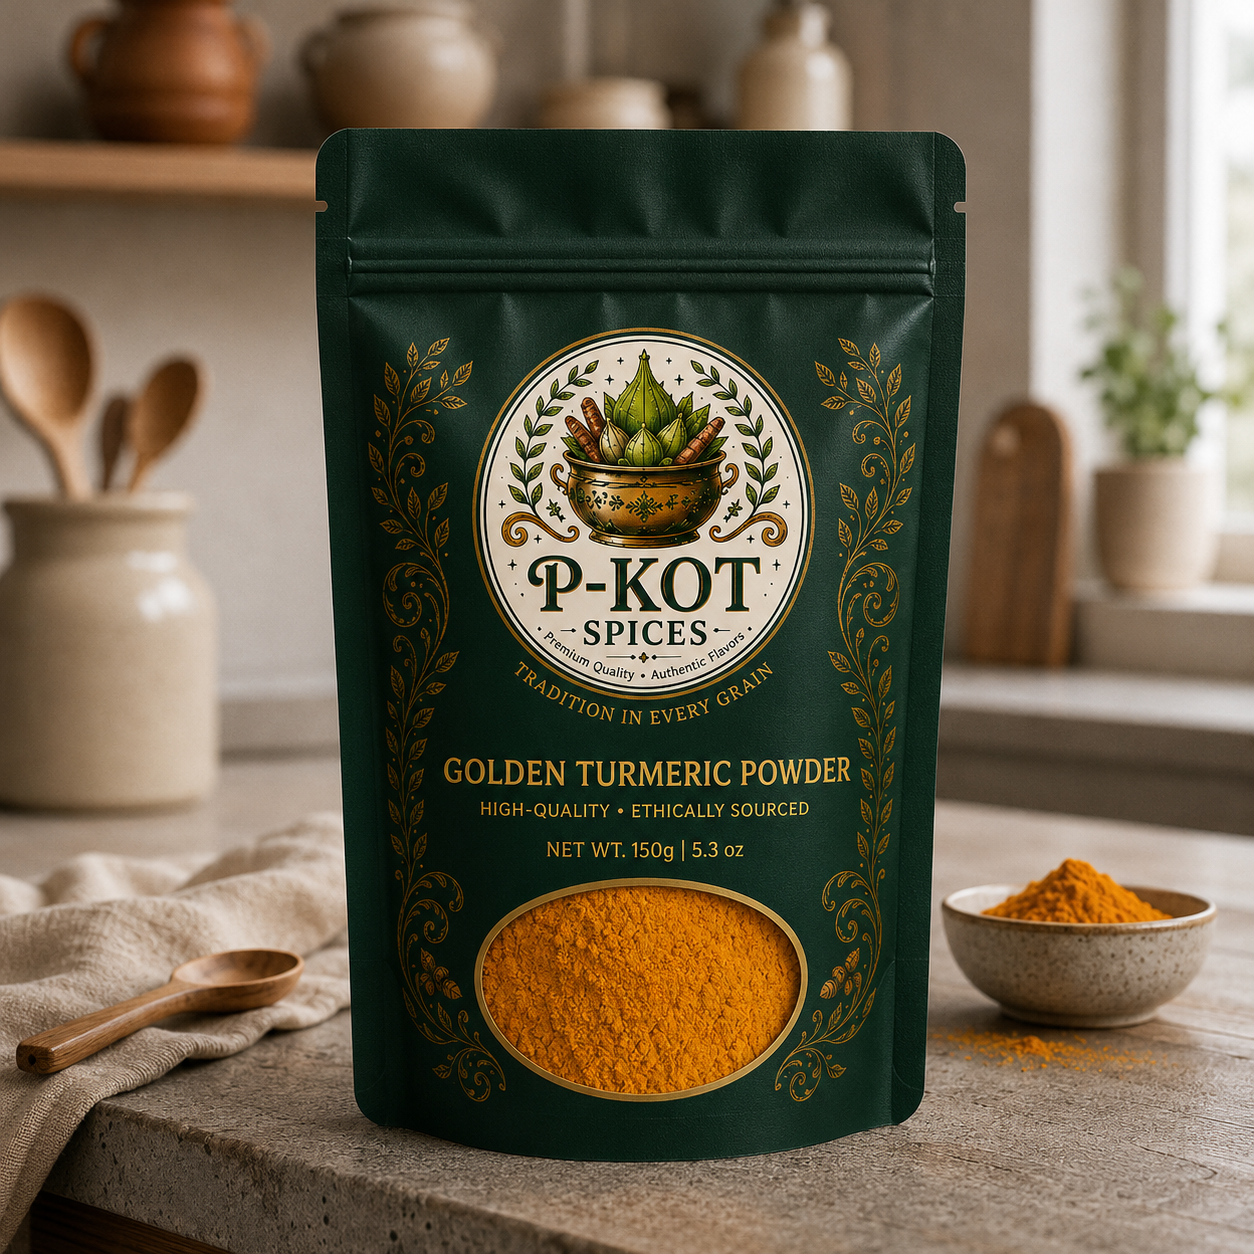
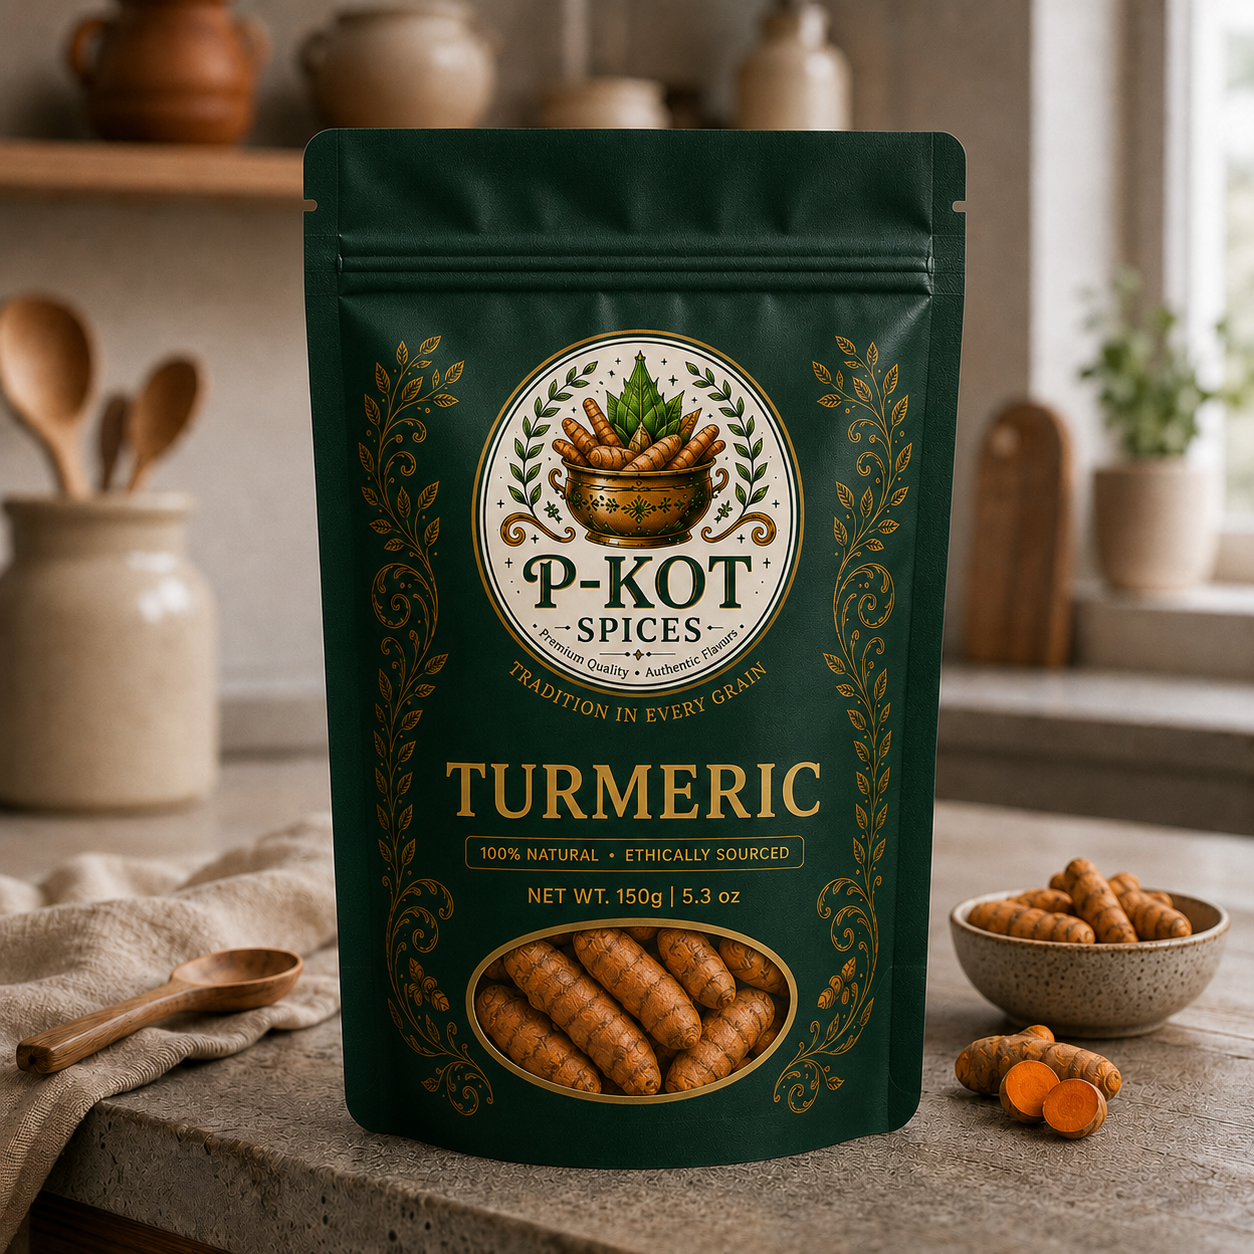
feat: implement products display page with category filtering and add product data assets

diff --git a/src/app/products/page.js b/src/app/products/page.js
@@ -13,6 +13,21 @@ import Header from '@/components/common/Header';
 import MenuOverlay from '@/components/common/MenuOverlay';
 import Footer from '@/components/common/Footer';
 
+const CATEGORY_ORDER = {
+  'Ground Spices': 1,
+  'Whole Spices': 2,
+  'Pickles': 3
+};
+
+const sortedProducts = [...products].sort((a, b) => {
+  const orderA = CATEGORY_ORDER[a.category] || 99;
+  const orderB = CATEGORY_ORDER[b.category] || 99;
+  if (orderA !== orderB) {
+    return orderA - orderB;
+  }
+  return products.indexOf(a) - products.indexOf(b);
+});
+
 export default function ProductsPage() {
   const { currency } = useCurrency();
   const router = useRouter();
@@ -23,10 +38,10 @@ export default function ProductsPage() {
   const gridRef = useRef(null);
   const cardsRef = useRef([]);
 
-  const categories = ['All', ...new Set(products.map(p => p.category))];
+  const categories = ['All', ...new Set(sortedProducts.map(p => p.category))];
   const filteredProducts = activeCategory === 'All' 
-    ? products 
-    : products.filter(p => p.category === activeCategory);
+    ? sortedProducts 
+    : sortedProducts.filter(p => p.category === activeCategory);
 
   useEffect(() => {
     const handleScroll = () => {
@@ -100,9 +115,6 @@ export default function ProductsPage() {
                       }}
                     />
                     <div className={styles.categoryBadge}>{product.category}</div>
-                    <div className={styles.packagingBadge}>
-                      <Sparkles size={10} /> PREMIUM PACK
-                    </div>
                     <div className={styles.overlay}>
                       <span>VIEW DETAILS</span>
                     </div>

diff --git a/src/data/products.js b/src/data/products.js
@@ -44,9 +44,9 @@ export const products = [
     priceUSD: '5.49',
     unit: 'kg',
     description: 'Finely ground turmeric powder with high curcumin content. This golden spice is essential for flavor, color, and its renowned medicinal properties.',
-    image: '/products/turmeric-packed.png',
+    image: '/products/turmeric-powder-packed.png',
     gallery: [
-      '/products/turmeric-packed.png',
+      '/products/turmeric-powder-packed.png',
       '/products/turmeric-powder.png'
     ],
     details: 'Curcumin: 5%+. Type: Single Origin. Purity: No added colors.',